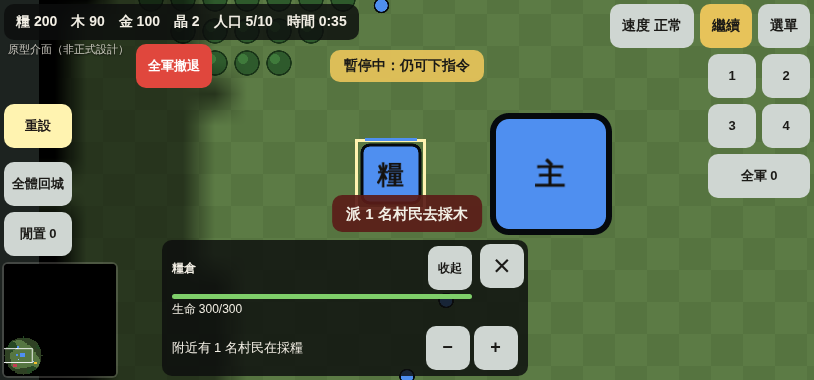
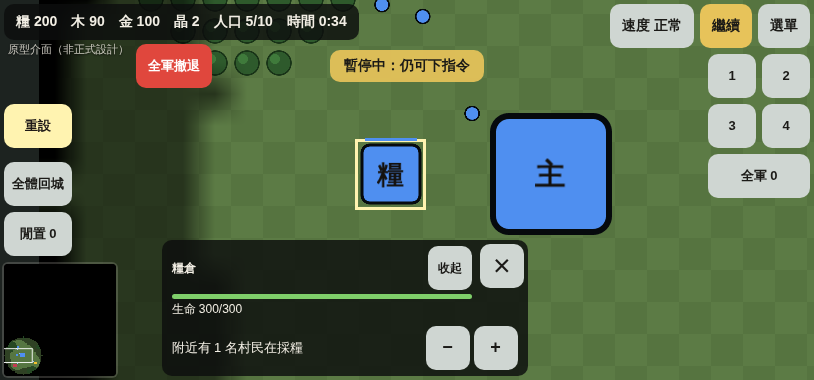
client：拿掉主城的附近在採的村民；換選建築時消掉派人訊息（D-070） (#164)
* D-070：拿掉主城的附近在採的村民（糧倉、伐木場、礦場照留）；換選建築時，前一棟的派人訊息馬上消掉

* D-070 截圖：主城沒有派村民；伐木場、糧倉換成新的（糧倉不再留著伐木場的訊息）

---------

diff --git a/client/e2e/sim.spec.ts b/client/e2e/sim.spec.ts
@@ -461,55 +461,23 @@ function expectedNode(nodes: { id: number; kind: number; cx: number; cy: number;
   );
 }
 
-test("點主城派村民（D-066）：主城寫糧、木、金各有幾名在採；木的＋派閒置的、沒有就派採別種資源、離主城最近的一名，送出親手派的 gather 去最近的樹；－讓採木最遠的一名放下工作（release），不再是親手派的", async ({ page }, info) => {
-  test.setTimeout(120_000);
+test("主城沒有附近在採的村民（D-070：「主城的那個附近在彩的村民沒有用，拿掉」）：選主城只有原本的生命、躲了幾名士兵，沒有派村民的－／＋", async ({ page }, info) => {
   await start(page, "?test=1&tps=60");
-  await expect.poll(async () => (await farmers(page)).filter((f) => f.order === 4).length, { timeout: 60_000 }).toBeGreaterThanOrEqual(3);
   await pause(page);
   await page.evaluate(() => window.__proto?.game?.select([]));
   const city = (await ownBuildings(page)).find((b) => b.type === 0);
   if (city === undefined) throw new Error("no main city");
-  const nodes = await page.evaluate(() => window.__proto?.game?.nodes() ?? []);
-  const kindOf = new Map(nodes.map((n) => [n.id, n.kind]));
-  const list = await farmers(page);
-  // At the start the main city is our only depot (no farms yet): everyone gathering food, wood or gold counts here.
-  const on = (kind: number) => list.filter((f) => f.order === 4 && kindOf.get(f.target) === kind).length;
   await tapBuilding(page, city);
   const panel = page.locator(".sel-info");
-  await expect(panel.locator(".depot-caption")).toHaveText("附近在採的村民");
-  await expect(panel.locator(".depot-count")).toHaveText([`糧 ${on(2)} 名`, `木 ${on(0)} 名`, `金 ${on(1)} 名`]);
-  await shot(page, info, "depot-city");
-  const who = await expectedPick(list, kindOf, city, 0);
-  const tree = expectedNode(nodes, city, 0);
-  expect(who, "someone to send").not.toBeNull();
-  await panel.getByRole("button", { name: "多派 1 名村民採木" }).tap();
-  if (tree === null) {
-    await expect(page.getByRole("status").filter({ hasText: "附近沒有樹" })).toBeVisible();
-    return;
-  }
-  await expect.poll(() => lastSent(page)).toMatchObject({ c: "gather", u: [who], node: tree.id });
-  await expect(page.getByRole("status").filter({ hasText: "派 1 名村民去採木" })).toBeVisible();
-  // The player's own gather: off to that tree, and the economy ratio leaves it there (HandPicked, D-050).
-  await page.getByRole("button", { name: "繼續", exact: true }).tap();
-  await expect.poll(async () => (await farmers(page)).find((f) => f.id === who), { timeout: 15_000 }).toMatchObject({ target: tree.id, handPicked: true });
-  // －: of those on wood (all of them bring it to the city), the farthest from it lets go.
-  await pause(page);
-  const now = await farmers(page);
-  const nodesNow = await page.evaluate(() => window.__proto?.game?.nodes() ?? []);
-  const kindNow = new Map(nodesNow.map((n) => [n.id, n.kind]));
-  const far = now
-    .filter((f) => f.order === 4 && kindNow.get(f.target) === 0)
-    .sort((a, c) => toFootprint({ x: c.fx, y: c.fy }, city) - toFootprint({ x: a.fx, y: a.fy }, city) || c.id - a.id)[0];
-  await expect(panel.locator(".depot-count").filter({ hasText: "木" })).toHaveText(/木 [1-9]\d* 名/);
-  await panel.getByRole("button", { name: "少派 1 名村民採木" }).tap();
-  await expect.poll(() => lastSent(page)).toMatchObject({ c: "release", u: [far.id] });
-  await expect(page.getByRole("status").filter({ hasText: "1 名採木的村民放下工作，交給經濟分配" })).toBeVisible();
-  await page.getByRole("button", { name: "繼續", exact: true }).tap();
-  // Back to the economy: no longer the player's own (the ratio may send it anywhere, wood included).
-  await expect.poll(async () => (await farmers(page)).find((f) => f.id === far.id)?.handPicked, { timeout: 15_000 }).toBe(false);
+  // The panel is built in one go: once its title and life are there, so would the rows be.
+  await expect(panel.locator(".sel-head")).toContainText("主城");
+  await expect(panel).toContainText(/生命 \d+\/\d+/);
+  await expect(panel.locator(".depot")).toHaveCount(0);
+  await expect(panel.getByRole("button", { name: /^多派 1 名村民採/ })).toHaveCount(0);
+  await shot(page, info, "depot-city-none");
 });
 
-test("點伐木場、糧倉派村民（D-066）：寫附近有幾名在採；每名村民只算在他送回的那一棟；伐木場的＋派去它旁邊的樹，糧倉沒有空田時去野果或提示先蓋田", async ({ page }, info) => {
+test("點伐木場、糧倉派村民（D-066）：寫附近有幾名在採，送回主城的不算；伐木場的＋派閒置的、沒有就派採別種資源、最近的一名去它旁邊的樹（親手派的）；換選糧倉時伐木場的訊息消掉；糧倉沒有空田時去野果或提示先蓋田；伐木場的－讓最遠的一名放下工作（release）", async ({ page }, info) => {
   test.setTimeout(180_000);
   await start(page, "?test=1&tps=60");
   await expect.poll(async () => (await farmers(page)).filter((f) => f.order === 4).length, { timeout: 60_000 }).toBeGreaterThanOrEqual(3);
@@ -532,38 +500,57 @@ test("點伐木場、糧倉派村民（D-066）：寫附近有幾名在採；每
   const camp = (await done(2)) as Building;
   const granary = (await done(4)) as Building;
   const panel = page.locator(".sel-info");
-  const count = async (b: Building, name: string, word: string) => {
+  /** Tap a building and wait for its own panel (until the next interface update it is the one before, run 37565059980). */
+  const open = async (b: Building, name: string) => {
     await tapBuilding(page, b);
-    // The panel is rebuilt for this building and fills its numbers on the next interface
-    // update (10 a second); until then it is the one before (run 37565059980 read the city's).
     await expect(panel.locator(".sel-head")).toContainText(name);
-    const cell = panel.locator(".depot-count").filter({ hasText: word });
-    await expect(cell).toHaveText(/\d+ 名/);
-    return Number(/(\d+) 名/.exec((await cell.textContent()) ?? "")?.[1] ?? -1);
   };
-  // Every villager on wood counts at exactly one of the two: the city and the camp add up.
   const nodes = await page.evaluate(() => window.__proto?.game?.nodes() ?? []);
   const kindOf = new Map(nodes.map((n) => [n.id, n.kind]));
+  const nodeAt = new Map(nodes.map((n) => [n.id, { x: n.cx + 0.5, y: n.cy + 0.5 }]));
   const list = await farmers(page);
-  const onWood = list.filter((f) => f.order === 4 && kindOf.get(f.target) === 0).length;
-  const atCity = await count(city, "主城", "木");
-  const atCamp = await count(camp, "伐木場", "在採木");
-  expect(atCity + atCamp, "each villager on wood counted once").toBe(onWood);
-  await expect(panel.locator(".depot-count")).toHaveText(`附近有 ${atCamp} 名村民在採木`);
+  // Each villager on wood counts at the depot nearest the tree it cuts: those nearer the city bring it there and are not the camp's.
+  const campWorkers = list.filter((f) => {
+    const at = nodeAt.get(f.target);
+    if (f.order !== 4 || kindOf.get(f.target) !== 0 || at === undefined) return false;
+    const toCamp = toFootprint(at, camp);
+    const toCity = toFootprint(at, city);
+    return toCamp < toCity || (toCamp === toCity && camp.id < city.id);
+  });
+  await open(camp, "伐木場");
+  await expect(panel.locator(".depot-count")).toHaveText(`附近有 ${campWorkers.length} 名村民在採木`);
   await shot(page, info, "depot-lumber-camp");
-  // ＋ at the camp: the tree nearest the camp.
+  // ＋ at the camp: idle first, else the nearest gathering something else; to the tree nearest the camp.
   const who = expectedPick(list, kindOf, camp, 0);
   const tree = expectedNode(nodes, camp, 0);
+  expect(who !== null && tree !== null, "someone to send, a tree near the camp").toBe(true);
   await panel.getByRole("button", { name: "多派 1 名村民採木" }).tap();
-  if (who !== null && tree !== null) await expect.poll(() => lastSent(page)).toMatchObject({ c: "gather", u: [who], node: tree.id });
-  // The granary: food, no farms yet, so berries within reach or 先蓋農田.
-  await tapBuilding(page, granary);
-  await expect(panel.locator(".sel-head")).toContainText("糧倉");
+  await expect.poll(() => lastSent(page)).toMatchObject({ c: "gather", u: [who], node: tree?.id });
+  const sentWord = page.getByRole("status").filter({ hasText: "派 1 名村民去採木" });
+  await expect(sentWord).toBeVisible();
+  // Another building selected: the camp's message goes at once (it stays 2.2 s on its own).
+  await open(granary, "糧倉");
+  await expect(sentWord).toHaveCount(0, { timeout: 1000 });
   await expect(panel.locator(".depot-count")).toHaveText(/^附近有 \d+ 名村民在採糧$/);
   await shot(page, info, "depot-granary");
+  // The granary: food, no farms yet, so berries within reach or 先蓋農田.
   const mark = (await page.evaluate(() => window.__proto?.game?.sent() ?? [])).length;
   await panel.getByRole("button", { name: "多派 1 名村民採糧" }).tap();
   const berries = expectedNode(nodes, granary, 2);
   if (berries === null) await expect(page.getByRole("status").filter({ hasText: "附近沒有空田，先蓋農田" })).toBeVisible();
   else await expect.poll(async () => (await page.evaluate(() => window.__proto?.game?.sent() ?? [])).slice(mark)).toMatchObject([{ c: "gather", node: berries.id }]);
+  // －at the camp: of those gathering for it, the farthest from it lets go, back to the economy.
+  const far = [...campWorkers].sort((a, c) => toFootprint({ x: c.fx, y: c.fy }, camp) - toFootprint({ x: a.fx, y: a.fy }, camp) || c.id - a.id)[0];
+  await open(camp, "伐木場");
+  if (far === undefined) {
+    await expect(panel.getByRole("button", { name: "少派 1 名村民採木" })).toBeDisabled();
+  } else {
+    await panel.getByRole("button", { name: "少派 1 名村民採木" }).tap();
+    await expect.poll(() => lastSent(page)).toMatchObject({ c: "release", u: [far.id] });
+    await expect(page.getByRole("status").filter({ hasText: "1 名採木的村民放下工作，交給經濟分配" })).toBeVisible();
+  }
+  // Off they go: the one sent is the player's own (HandPicked, D-050), the one let go no longer.
+  await page.getByRole("button", { name: "繼續", exact: true }).tap();
+  await expect.poll(async () => (await farmers(page)).find((f) => f.id === who), { timeout: 15_000 }).toMatchObject({ target: tree?.id, handPicked: true });
+  if (far !== undefined) await expect.poll(async () => (await farmers(page)).find((f) => f.id === far.id)?.handPicked, { timeout: 15_000 }).toBe(false);
 });

diff --git a/client/src/game/game.ts b/client/src/game/game.ts
@@ -63,7 +63,7 @@ import { Placement, towerLandOk } from "../ui/placement.ts";
 import { GameView } from "../view/view.ts";
 import { ArmyBook, type ArmyUnit, isSoldier, mostlyLoose, RECRUIT_MESSAGE_TICKS, type TownArea } from "./army.ts";
 import { MILITIA_WARNING, militiaTownNear } from "./militia.ts";
-import { type Depot, type DepotFarm, type DepotNode, DEPOT_RESOURCES, pickToSend, pickToTake, sendTarget, type Worker, workersAt } from "./depot.ts";
+import { type Depot, type DepotFarm, type DepotNode, DEPOT_RESOURCES, panelResources, pickToSend, pickToTake, sendTarget, type Worker, workersAt } from "./depot.ts";
 import { type DispatchPool, dispatchCount, dispatchPool, NODE_RESOURCE, RESOURCE_WORD, type Villager } from "./dispatch.ts";
 import { features, garrisonTypes, holdsOf } from "./features.ts";
 import { GARRISON_PROMPT, GARRISON_PROMPT_MIXED, GARRISON_WRONG_TARGET, garrisonTap, isHiding } from "./garrison.ts";
@@ -270,6 +270,18 @@ export class Game implements GestureHost {
     if (n === 0) return;
     cam.zoomAt(0, 0, 0.75);
     cam.centerOn(x / n, y / n);
+  }
+
+  /**
+   * The message a depot's − or ＋ put up, and for which building: selecting another takes it
+   * off the strip, so it does not read as the new building's (ceo 2026-10-07).
+   */
+  private depotToast: { building: number; text: string } | null = null;
+
+  /** The message of a depot's − or ＋. */
+  private depotSay(building: number, text: string): void {
+    this.toast(text);
+    this.depotToast = { building, text };
   }
 
   /** The port, for the test hook (it can feed events to the fake world). */
@@ -601,10 +613,14 @@ export class Game implements GestureHost {
     return out;
   }
 
-  /** The resources a depot panel shows for this building of ours (none for others). */
+  /** The resources a depot panel shows for this building of ours (none for others, nor for the main city, D-070). */
   depotResources(building: number): Resource[] {
+    const view = this.view;
     const d = this.depots().find((v) => v.id === building);
-    return d === undefined ? [] : DEPOT_RESOURCES.filter((r) => d.accepts.includes(r));
+    const o = view?.buildingRow(building) ?? -1;
+    const b = view?.curr?.snap.buildings;
+    if (view === null || d === undefined || o < 0 || b === undefined) return [];
+    return panelResources(b[o + BuildingField.type], d.accepts);
   }
 
   /** How many of our villagers bring `resource` back to this building (D-066). */
@@ -621,7 +637,7 @@ export class Game implements GestureHost {
     const workers = this.workers();
     const id = pickToSend(workers, depot, resource);
     if (id === null) {
-      this.toast("沒有可以派的村民");
+      this.depotSay(building, "沒有可以派的村民");
       return;
     }
     const nodes: DepotNode[] = [...view.nodes.values()].map((r) => ({ id: r[NodeField.id], kind: r[NodeField.kind], cx: r[NodeField.cellX], cy: r[NodeField.cellY], amount: r[NodeField.amount] }));
@@ -637,13 +653,13 @@ export class Game implements GestureHost {
     }
     const to = sendTarget(depot, resource, nodes, farms);
     if ("error" in to) {
-      this.toast(to.error);
+      this.depotSay(building, to.error);
       return;
     }
     // A farm is worked with `repair`, a node with `gather` (sim/PROTOCOL.md 3.1); both make the villager the player's own (HandPicked, core #149).
     const cmd: CommandBody = "farm" in to ? { c: "repair", u: [id], building: to.farm } : { c: "gather", u: [id], node: to.node };
     this.apply([{ kind: "command", cmd }]);
-    this.toast(`派 1 名村民去${"farm" in to ? "種田" : `採${RESOURCE_WORD[resource] ?? ""}`}`);
+    this.depotSay(building, `派 1 名村民去${"farm" in to ? "種田" : `採${RESOURCE_WORD[resource] ?? ""}`}`);
   }
 
   /**
@@ -655,11 +671,11 @@ export class Game implements GestureHost {
     if (depot === undefined) return;
     const id = pickToTake(this.workers(), this.depots(), depot, resource);
     if (id === null) {
-      this.toast(`這裡沒有村民在採${RESOURCE_WORD[resource] ?? ""}`);
+      this.depotSay(building, `這裡沒有村民在採${RESOURCE_WORD[resource] ?? ""}`);
       return;
     }
     this.apply([{ kind: "command", cmd: { c: "release", u: [id] } }]);
-    this.toast(`1 名採${RESOURCE_WORD[resource] ?? ""}的村民放下工作，交給經濟分配`);
+    this.depotSay(building, `1 名採${RESOURCE_WORD[resource] ?? ""}的村民放下工作，交給經濟分配`);
   }
 
   /** 派村民 (D-061): whom a tap on this node can send, nearest first; null for an unknown node. */
@@ -1134,6 +1150,11 @@ export class Game implements GestureHost {
           this.setMode("normal");
           break;
       }
+    }
+    // Another building selected (or none): a depot's message about the one before goes.
+    if (this.depotToast !== null && view.selection.building !== this.depotToast.building) {
+      this.overlays.clearToast(this.depotToast.text);
+      this.depotToast = null;
     }
   }
 

diff --git a/client/src/game/depot.ts b/client/src/game/depot.ts
@@ -1,8 +1,10 @@
 // 點存放建築派村民 (D-066, user 2026-10-07: 「點擊糧倉、伐木場、礦場點擊後可以分配村民」): a tap
-// on our granary, lumber camp, mine or main city shows how many villagers gather there, with
-// − and +. A villager counts at the one depot it brings its load back to: the nearest of ours
-// that takes that resource, measured from where it gathers (a node, or the farm it works). So
-// every villager counts once, and the depots' counts add up.
+// on our granary, lumber camp or mine shows how many villagers gather there, with − and +. The
+// main city shows none of it (D-070: 「主城的那個附近在彩的村民沒有用，拿掉」), though it still
+// counts as a depot. A villager counts at the one depot it brings its load back to: the nearest
+// of ours that takes that resource, measured from where it gathers (a node, or the farm it
+// works). So every villager counts once, and a lumber camp's count leaves out those who bring
+// their wood to the main city.
 //
 // +: one at a time; idle villagers first, then those gathering another resource, nearest to
 // the depot first. Never those on the crystal vein (by hand only, GDD §4) or building or
@@ -10,13 +12,19 @@
 // depot; food to the nearest farm nobody works, else berries.
 // −: the one gathering here farthest from the depot (ceo 2026-10-07).
 
-import { NodeKind, Resource } from "../sim.ts";
+import { BuildingType, NodeKind, Resource } from "../sim.ts";
 
 /** Cells from a depot's footprint within which + looks for trees, gold, farms and berries. */
 export const DEPOT_REACH = 10;
 
 /** The resources a depot row is shown for (the crystal vein is by hand only). */
 export const DEPOT_RESOURCES: readonly Resource[] = [Resource.Food, Resource.Wood, Resource.Gold];
+
+/** The resource rows the panel of this building of ours shows: none for the main city (D-070). */
+export function panelResources(type: number, accepts: readonly number[]): Resource[] {
+  if (type === BuildingType.MainCity) return [];
+  return DEPOT_RESOURCES.filter((r) => accepts.includes(r));
+}
 
 /** One own villager as the depot panel needs it (cells). */
 export interface Worker {

diff --git a/client/src/ui/hud/panels.ts b/client/src/ui/hud/panels.ts
@@ -455,16 +455,14 @@ export class SelectionInfo {
   }
 
   /**
-   * 點存放建築派村民 (D-066): how many villagers gather here, − and ＋ for one less or more. One
-   * resource (granary, lumber camp, mine): a line of its own. The main city's three: side by
-   * side, so the panel stays clear of 全軍撤退 with a training queue above. Returns the update.
+   * 點存放建築派村民 (D-066): how many villagers gather here, − and ＋ for one less or more; a
+   * line per resource (granary, lumber camp and mine take one each; the main city shows none,
+   * D-070). Returns the update.
    */
   private depot(id: number): (() => void) | null {
     const resources = this.host.depotResources(id);
     if (resources.length === 0) return null;
-    const one = resources.length === 1;
-    const box = el("div", this.el, one ? "depot depot-one" : "depot depot-grid");
-    if (!one) el("span", box, "depot-caption", "附近在採的村民");
+    const box = el("div", this.el, "depot");
     const cells = resources.map((r) => {
       const word = RESOURCE_WORD[r] ?? "";
       const cell = el("div", box, "depot-cell");
@@ -479,7 +477,7 @@ export class SelectionInfo {
     return () => {
       for (const c of cells) {
         const n = this.host.depotWorkers(id, c.r);
-        const text = one ? `附近有 ${n} 名村民在採${c.word}` : `${c.word} ${n} 名`;
+        const text = `附近有 ${n} 名村民在採${c.word}`;
         if (c.count.textContent !== text) c.count.textContent = text;
         c.minus.disabled = n === 0;
       }

diff --git a/client/src/style.css b/client/src/style.css
@@ -751,31 +751,20 @@ button.active {
   width: auto;
 }
 
-/* 點存放建築派村民 (D-066): one resource on a line of its own; the main city's three side by side, the count over its buttons. */
+/* 點存放建築派村民 (D-066): a line per resource, the count then − and ＋. */
 .depot {
   margin: 4px -46px 0 0;
   font-size: 13px;
 }
 
-.depot-one .depot-cell {
+.depot-cell {
   display: flex;
   align-items: center;
   gap: 6px;
 }
 
-.depot-one .depot-count {
+.depot-count {
   flex: 1;
-}
-
-.depot-grid {
-  display: grid;
-  grid-template-columns: repeat(3, 1fr);
-  gap: 2px 8px;
-}
-
-.depot-caption {
-  grid-column: 1 / -1;
-  opacity: 0.85;
 }
 
 .depot-steps {

diff --git a/client/src/ui/overlays.ts b/client/src/ui/overlays.ts
@@ -271,4 +271,11 @@ export class Overlays {
       this.toastBox.hidden = true;
     }, 2200);
   }
+
+  /** Takes this message off the strip now, if it is still the one showing (a newer one stays). */
+  clearToast(text: string): void {
+    if (this.toastBox.hidden || this.toastBox.textContent !== text) return;
+    window.clearTimeout(this.toastTimer);
+    this.toastBox.hidden = true;
+  }
 }
